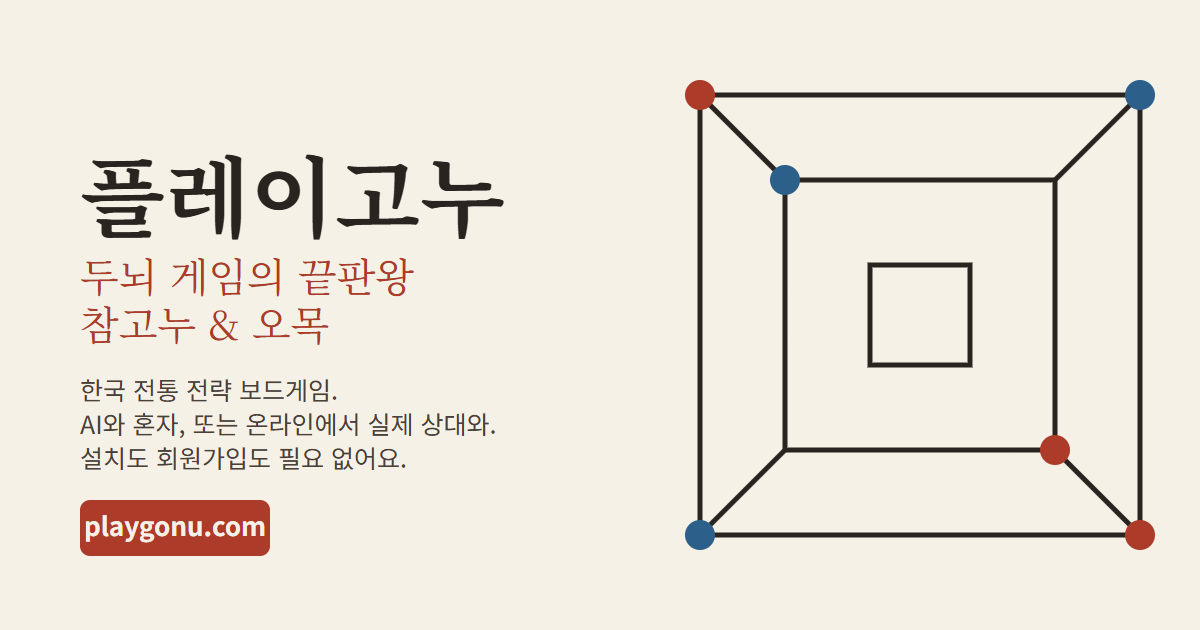
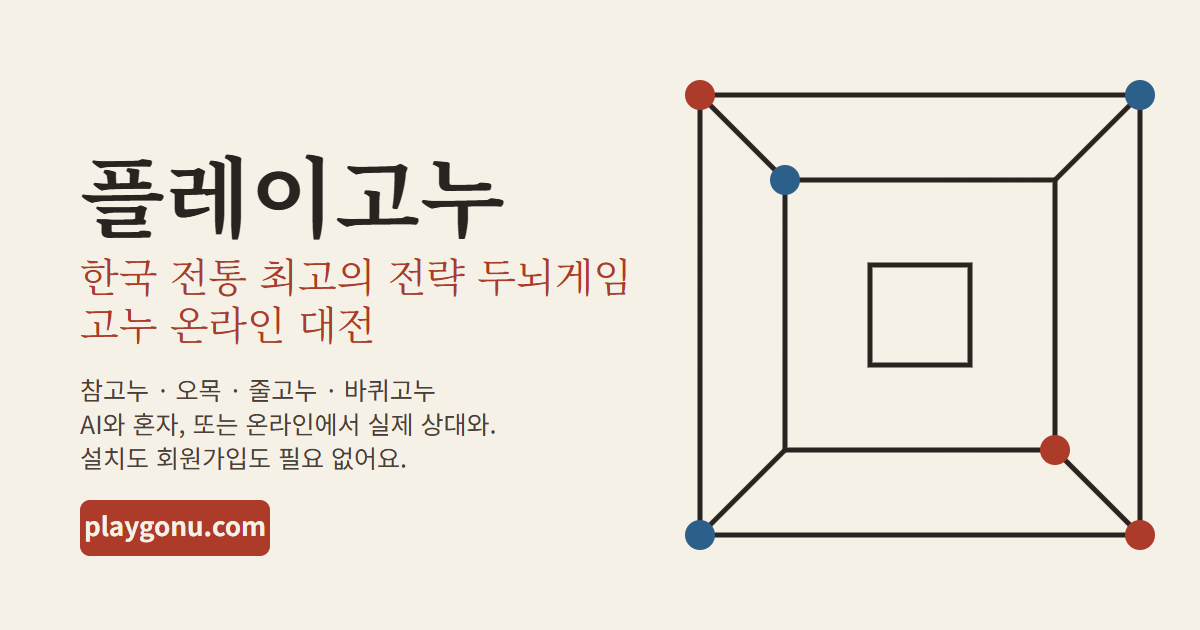
Korean home: "한국 전통 최고의 전략 두뇌게임, 고누 온라인 대전"
The user's tagline now heads the Korean home page (headline, kept whole
when it wraps on phones), its page title, share title and description,
and the Korean share card.

Changed region(s): [[0.0617, 0.3921, 0.5242, 0.5429], [0.0617, 0.6032, 0.37, 0.6333]]

diff --git a/ko/index.html b/ko/index.html
@@ -3,8 +3,8 @@
 <head>
 <meta charset="utf-8">
 <meta name="viewport" content="width=device-width, initial-scale=1">
-<title>플레이고누 — 참고누 온라인으로 즐기기</title>
-<meta name="description" content="두뇌 게임의 끝판왕, 참고누와 오목 — AI와 대전하거나 온라인에서 실제 상대와 겨뤄보세요. 줄고누·바퀴고누 같은 한국 전통 고누도 함께. 설치도 회원가입도 필요 없어요.">
+<title>플레이고누 — 한국 전통 최고의 전략 두뇌게임, 고누 온라인 대전</title>
+<meta name="description" content="한국 전통 최고의 전략 두뇌게임, 고누 온라인 대전 — 참고누·오목을 AI와, 또는 온라인에서 실제 상대와. 줄고누·바퀴고누도 함께. 설치도 회원가입도 필요 없어요.">
 <link rel="icon" type="image/svg+xml" href="../favicon.svg">
 <link rel="icon" type="image/png" sizes="32x32" href="../favicon-32.png">
 <link rel="apple-touch-icon" href="../apple-touch-icon.png">
@@ -12,12 +12,12 @@
 <meta property="og:type" content="website">
 <meta property="og:site_name" content="PlayGonu">
 <meta property="og:url" content="https://playgonu.com/ko/">
-<meta property="og:title" content="플레이고누 — 두뇌 게임의 끝판왕, 참고누 &amp; 오목">
-<meta property="og:description" content="잡고, 가두고, 수 싸움에서 이기세요 — AI와 대전하거나 온라인에서 실제 상대와. 설치도 회원가입도 필요 없습니다.">
+<meta property="og:title" content="플레이고누 — 한국 전통 최고의 전략 두뇌게임, 고누 온라인 대전">
+<meta property="og:description" content="잡고, 가두고, 수 싸움에서 이기세요 — 참고누·오목을 AI와, 또는 온라인에서 실제 상대와. 설치도 회원가입도 필요 없습니다.">
 <meta property="og:image" content="https://playgonu.com/og-image-ko.png">
 <meta name="twitter:card" content="summary_large_image">
-<meta name="twitter:title" content="플레이고누 — 두뇌 게임의 끝판왕, 참고누 &amp; 오목">
-<meta name="twitter:description" content="잡고, 가두고, 수 싸움에서 이기세요 — AI와 대전하거나 온라인에서 실제 상대와. 설치도 회원가입도 필요 없습니다.">
+<meta name="twitter:title" content="플레이고누 — 한국 전통 최고의 전략 두뇌게임, 고누 온라인 대전">
+<meta name="twitter:description" content="잡고, 가두고, 수 싸움에서 이기세요 — 참고누·오목을 AI와, 또는 온라인에서 실제 상대와. 설치도 회원가입도 필요 없습니다.">
 <meta name="twitter:image" content="https://playgonu.com/og-image-ko.png">
 <link rel="preconnect" href="https://fonts.googleapis.com">
 <link href="https://fonts.googleapis.com/css2?family=Noto+Serif+KR:wght@500;700&family=Work+Sans:wght@400;500;600;700&display=swap" rel="stylesheet">
@@ -43,9 +43,9 @@
   </header>
 
   <div style="max-width:1280px;margin:0 auto;padding:56px 40px 40px;text-align:center;display:flex;flex-direction:column;align-items:center;gap:18px;">
-    <div class="tag" style="color:var(--red);">한국 전통 전략 게임</div>
-    <h1 class="serif" style="margin:0;font-size:34px;line-height:1.25;max-width:720px;">두뇌 게임의 끝판왕 — 참고누 &amp; 오목</h1>
-    <p style="margin:0;font-size:15px;line-height:1.6;color:var(--ink-soft);max-width:560px;">잡고, 가두고, 수 싸움에서 이기세요 — AI와 대전하거나 온라인에서 실제 상대와. 설치도 회원가입도 필요 없습니다.</p>
+    <div class="tag" style="color:var(--red);">참고누 · 오목 · 줄고누 · 바퀴고누</div>
+    <h1 class="serif" style="margin:0;font-size:34px;line-height:1.25;max-width:720px;word-break:keep-all;">한국 전통 최고의 전략 두뇌게임<br>고누 온라인 대전</h1>
+    <p style="margin:0;font-size:15px;line-height:1.6;color:var(--ink-soft);max-width:560px;word-break:keep-all;">잡고, 가두고, 수 싸움에서 이기세요 — 참고누·오목을 AI와, 또는 온라인에서 실제 상대와. 설치도 회원가입도 필요 없습니다.</p>
     <div style="display:flex;gap:14px;flex-wrap:wrap;justify-content:center;margin-top:8px;">
       <a href="#board-top" class="btn-primary" style="padding:14px 28px;font-size:15px;">싱글 플레이</a>
       <a href="online.html" class="btn" style="padding:14px 28px;font-size:15px;">온라인 대전</a>
